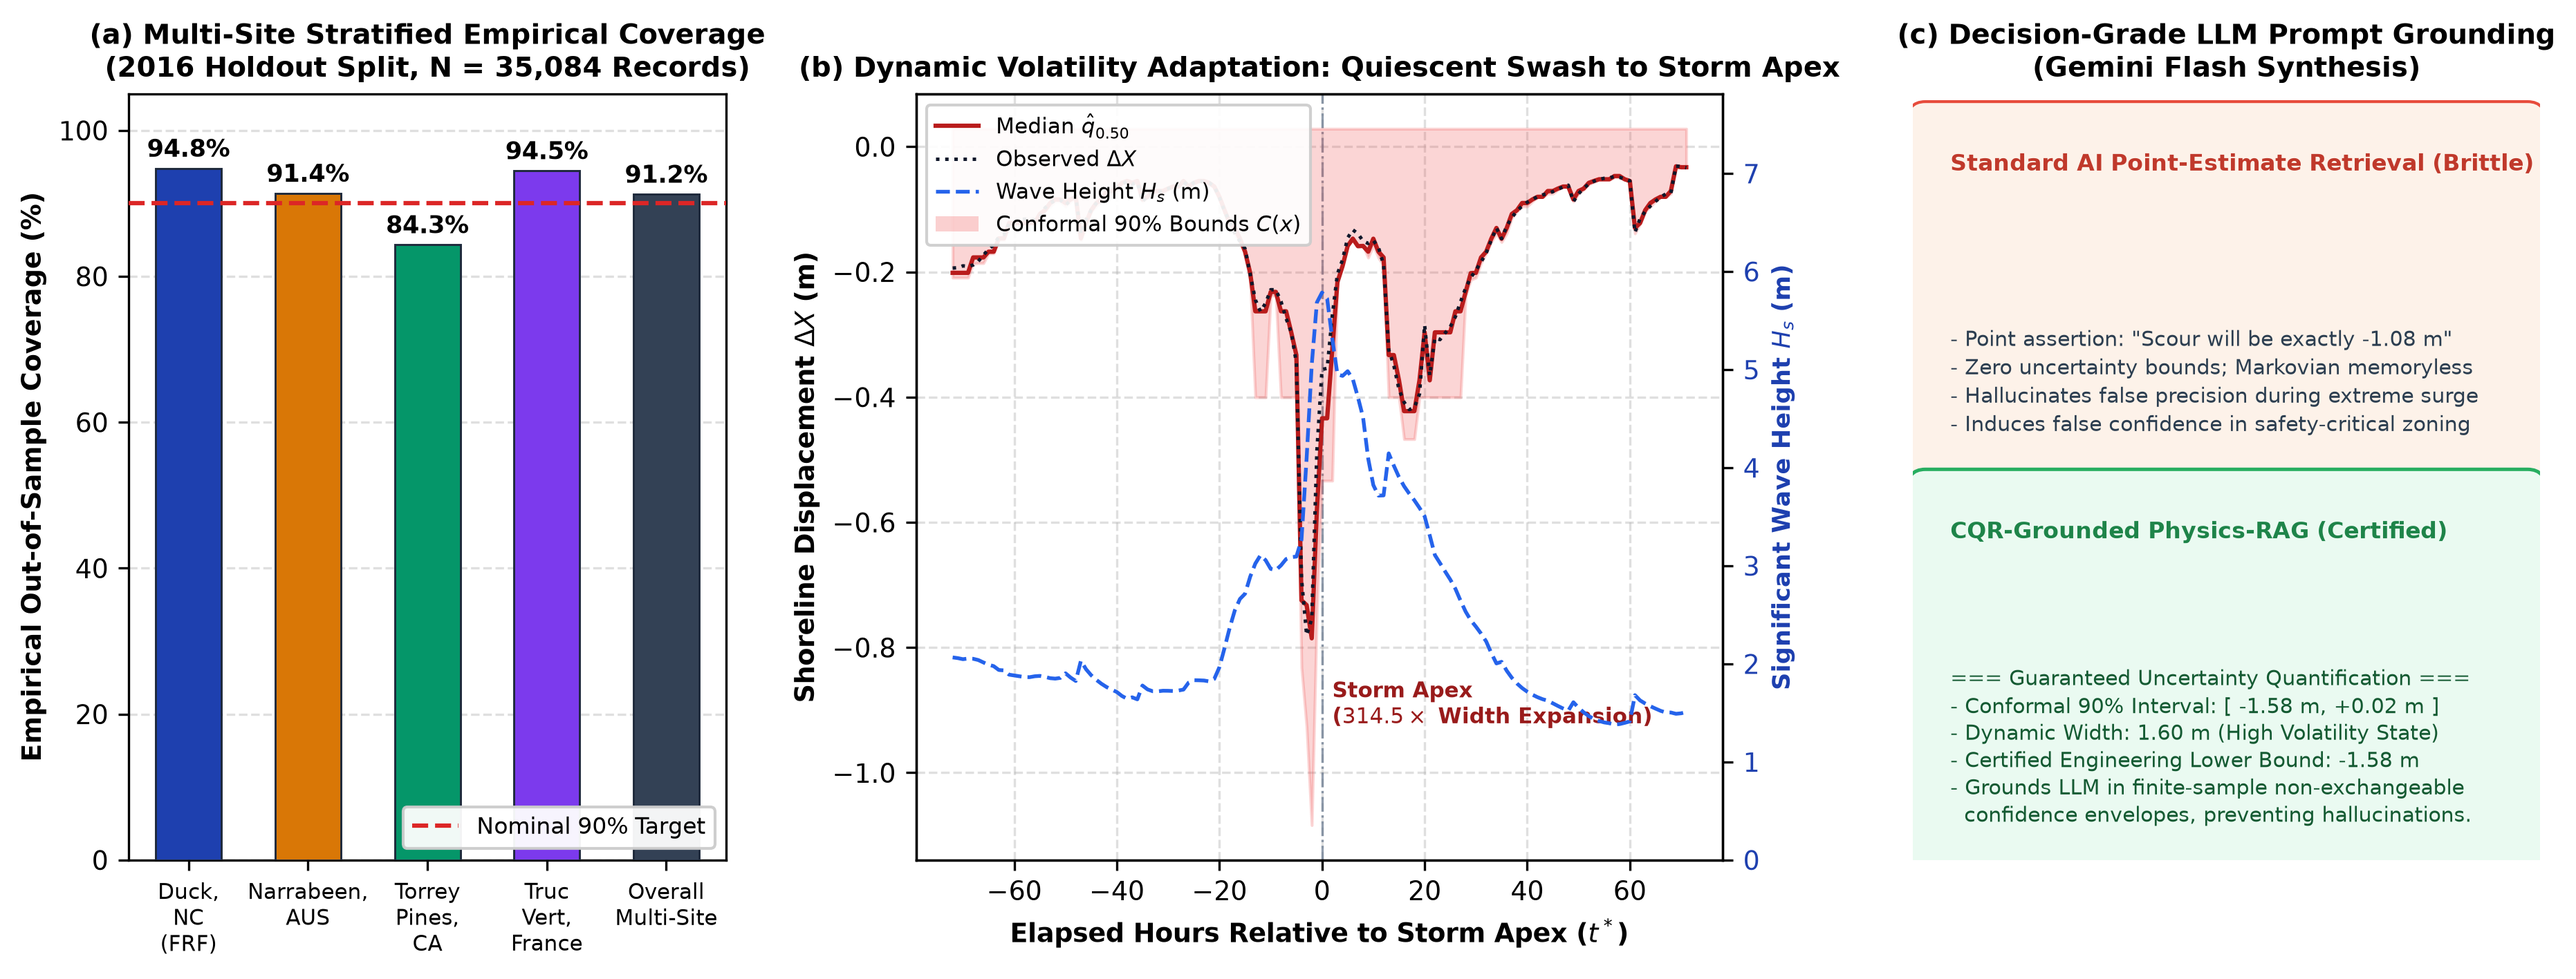
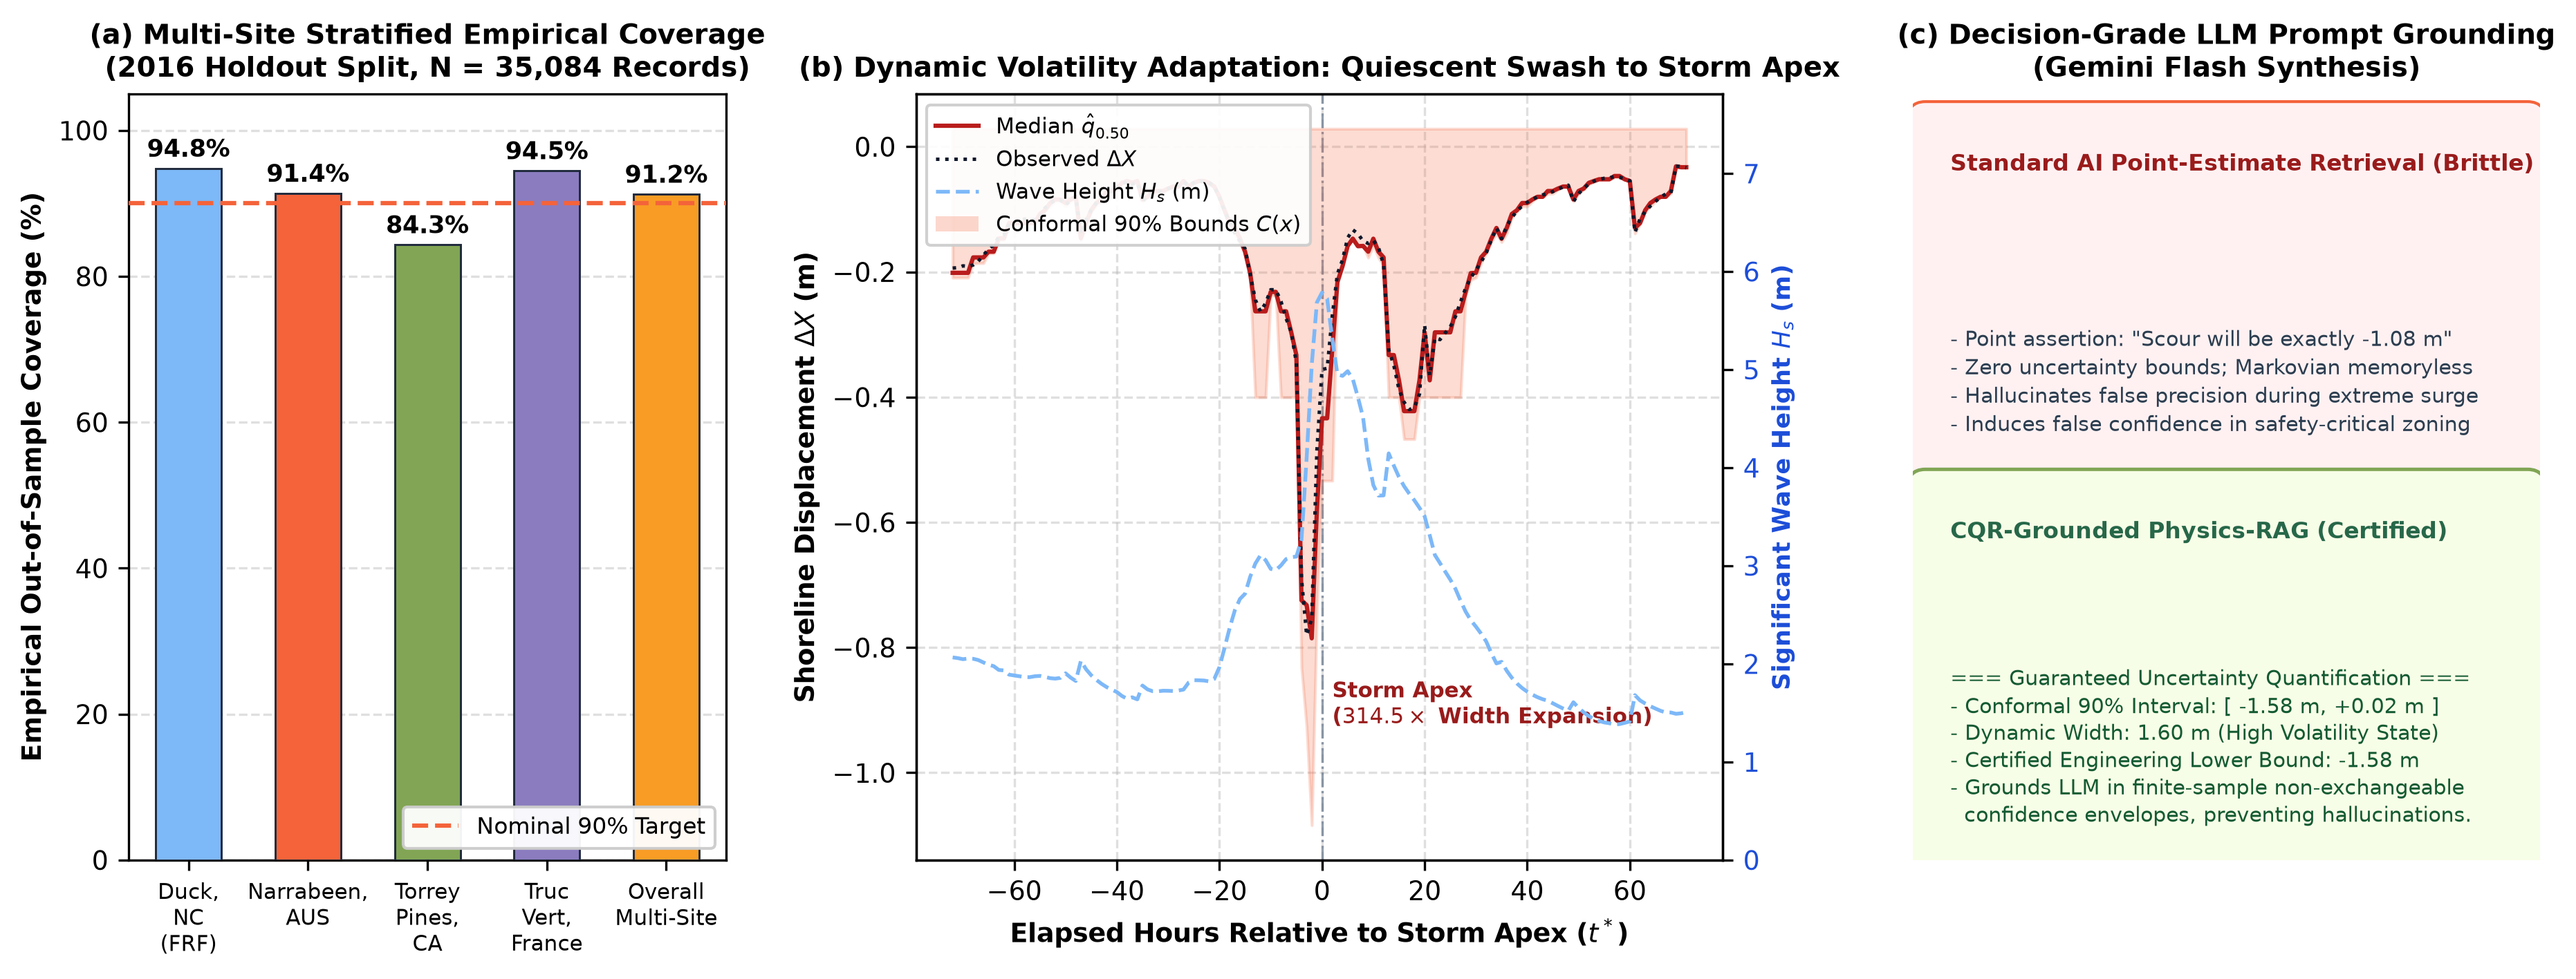
style: update visualization color palette across scripts and notebooks

diff --git a/scripts/generate_conformal_uq_figure.py b/scripts/generate_conformal_uq_figure.py
@@ -115,11 +115,11 @@ def main():
     labels = [site_names[s].replace(" ", "\n") for s in sites] + ["Overall\nMulti-Site"]
     cov_vals = [site_coverages[s] for s in sites] + [overall_eval["empirical_coverage"] * 100.0]
     # Unified Project-Wide Site Palette:
-    # Duck (Navy), Narrabeen (Amber), Torrey Pines (Emerald), Truc Vert (Violet), Overall (Slate)
-    bar_colors = ["#1E40AF", "#D97706", "#059669", "#7C3AED", "#334155"]
+    # Duck (Light Blue), Narrabeen (Salmon), Torrey Pines (Sage Green), Truc Vert (Lilac), Overall (Light Orange)
+    bar_colors = ["#7db8f8", "#f4633a", "#81a554", "#8b7cbf", "#f89c25"]
 
     bars = ax_a.bar(x_pos, cov_vals, width=0.55, color=bar_colors, edgecolor="#1E293B", linewidth=0.7, zorder=3)
-    ax_a.axhline(90.0, color="#DC2626", linestyle="--", linewidth=1.5, label="Nominal 90% Target", zorder=4)
+    ax_a.axhline(90.0, color="#f4633a", linestyle="--", linewidth=1.5, label="Nominal 90% Target", zorder=4)
 
     for b in bars:
         h = b.get_height()
@@ -141,9 +141,9 @@ def main():
 
     # Plot wave height on twin axis
     ax_b_tw = ax_b.twinx()
-    l_hs = ax_b_tw.plot(t_hours, storm_segment["hs_m"].values, color="#2563EB", linestyle="--", linewidth=1.3, label=r"Wave Height $H_s$ (m)", zorder=2)
-    ax_b_tw.set_ylabel(r"Significant Wave Height $H_s$ (m)", color="#1E40AF", fontsize=8.5, fontweight="bold")
-    ax_b_tw.tick_params(axis="y", labelcolor="#1E40AF")
+    l_hs = ax_b_tw.plot(t_hours, storm_segment["hs_m"].values, color="#7db8f8", linestyle="--", linewidth=1.3, label=r"Wave Height $H_s$ (m)", zorder=2)
+    ax_b_tw.set_ylabel(r"Significant Wave Height $H_s$ (m)", color="#1d4ed8", fontsize=8.5, fontweight="bold")
+    ax_b_tw.tick_params(axis="y", labelcolor="#1d4ed8")
     ax_b_tw.set_ylim(0, max(storm_segment["hs_m"].values) * 1.35)
 
     # Plot CQR prediction interval
@@ -152,8 +152,8 @@ def main():
     y_hi = storm_preds["conformal_upper"].values
     y_true = storm_segment[target_morpho_col].values
 
-    ax_b.fill_between(t_hours, y_lo, y_hi, color="#EF4444", alpha=0.22, label=r"Conformal 90% Interval $C(x)$", zorder=3)
-    l_med = ax_b.plot(t_hours, y_med, color="#B91C1C", linewidth=1.5, label=r"Median $\hat{q}_{0.50}$", zorder=4)
+    ax_b.fill_between(t_hours, y_lo, y_hi, color="#f4633a", alpha=0.22, label=r"Conformal 90% Interval $C(x)$", zorder=3)
+    l_med = ax_b.plot(t_hours, y_med, color="#b91c1c", linewidth=1.5, label=r"Median $\hat{q}_{0.50}$", zorder=4)
     l_obs = ax_b.plot(t_hours, y_true, color="#0F172A", linewidth=1.2, linestyle=":", label=r"Observed $\Delta X$", zorder=5)
 
     ax_b.axvline(0, color="#64748B", linestyle="-.", linewidth=0.8, alpha=0.7)
@@ -167,7 +167,7 @@ def main():
     # Combine legends
     lines = l_med + l_obs + l_hs
     labs = [l.get_label() for l in lines] + [r"Conformal 90% Bounds $C(x)$"]
-    ax_b.legend(lines + [patches.Patch(facecolor="#EF4444", alpha=0.25, edgecolor="none")], labs, loc="upper left", fontsize=7.5, framealpha=0.92)
+    ax_b.legend(lines + [patches.Patch(facecolor="#f4633a", alpha=0.25, edgecolor="none")], labs, loc="upper left", fontsize=7.5, framealpha=0.92)
 
     # ----------------------------------------------------
     # Panel (c): LLM Decision-Grade Grounding Box
@@ -178,9 +178,9 @@ def main():
 
     # Draw card 1: Ungrounded Baseline RAG
     box1 = patches.FancyBboxPatch((0.02, 0.52), 0.96, 0.44, boxstyle="round,pad=0.03,rounding_size=0.03",
-                                  linewidth=1.0, edgecolor="#e74c3c", facecolor="#fdf2e9")
+                                  linewidth=1.0, edgecolor="#f4633a", facecolor="#fff1f2")
     ax_c.add_patch(box1)
-    ax_c.text(0.06, 0.90, "Standard AI Point-Estimate Retrieval (Brittle)", fontsize=8, fontweight="bold", color="#c0392b")
+    ax_c.text(0.06, 0.90, "Standard AI Point-Estimate Retrieval (Brittle)", fontsize=8, fontweight="bold", color="#991b1b")
     ax_c.text(0.06, 0.56,
               "- Point assertion: \"Scour will be exactly -1.08 m\"\n"
               "- Zero uncertainty bounds; Markovian memoryless\n"
@@ -190,9 +190,9 @@ def main():
 
     # Draw card 2: CQR Decision-Grade Physics-RAG
     box2 = patches.FancyBboxPatch((0.02, 0.02), 0.96, 0.46, boxstyle="round,pad=0.03,rounding_size=0.03",
-                                  linewidth=1.2, edgecolor="#27ae60", facecolor="#eafaf1")
+                                  linewidth=1.2, edgecolor="#81a554", facecolor="#f7fee7")
     ax_c.add_patch(box2)
-    ax_c.text(0.06, 0.42, "CQR-Grounded Physics-RAG (Certified)", fontsize=8, fontweight="bold", color="#1e8449")
+    ax_c.text(0.06, 0.42, "CQR-Grounded Physics-RAG (Certified)", fontsize=8, fontweight="bold", color="#276749")
     ax_c.text(0.06, 0.05,
               "=== Guaranteed Uncertainty Quantification ===\n"
               "- Conformal 90% Interval: [ -1.58 m, +0.02 m ]\n"

diff --git a/scripts/generate_4panel_morphodynamics.py b/scripts/generate_4panel_morphodynamics.py
@@ -46,10 +46,10 @@ def main():
 
     # Harmonious, domain-aligned site color palette (consistent across all subplots)
     site_palette = {
-        "duck_nc": "#1E40AF",          # Atlantic Ocean Blue (Barrier Island)
-        "narrabeen_aus": "#D97706",     # Pacific Terracotta / Warm Amber (Embayed Beach)
-        "torrey_pines_ca": "#059669",   # California Coastal Emerald (Pocket Beach)
-        "truc_vert_france": "#7C3AED",  # French Atlantic Amethyst (Macrotidal)
+        "duck_nc": "#7db8f8",          # Light Blue (Atlantic Barrier Island)
+        "narrabeen_aus": "#f4633a",     # Salmon (Pacific Embayed Beach)
+        "torrey_pines_ca": "#81a554",   # Sage Green (California Pocket Beach)
+        "truc_vert_france": "#8b7cbf",  # Lilac (French Macrotidal)
     }
     site_colors = [site_palette[s] for s in sites]
 
@@ -60,8 +60,8 @@ def main():
     axes[0, 0].set_xticklabels(site_labels, rotation=15, fontweight="bold")
     axes[0, 0].set_ylabel(r"Dean Number $\Omega = H_s / (w_s T_p)$", fontweight="bold")
     axes[0, 0].set_title("(A) Morphodynamic Regime Across Global Sites", fontweight="bold", fontsize=14)
-    axes[0, 0].axhline(1.0, color="#27ae60", linestyle="--", alpha=0.8, linewidth=1.5, label=r"Reflective ($\Omega < 1$)")
-    axes[0, 0].axhline(6.0, color="#e74c3c", linestyle="--", alpha=0.8, linewidth=1.5, label=r"Dissipative ($\Omega > 6$)")
+    axes[0, 0].axhline(1.0, color="#81a554", linestyle="--", alpha=0.8, linewidth=1.5, label=r"Reflective ($\Omega < 1$)")
+    axes[0, 0].axhline(6.0, color="#f4633a", linestyle="--", alpha=0.8, linewidth=1.5, label=r"Dissipative ($\Omega > 6$)")
     axes[0, 0].legend(loc="upper right", fontsize=10, frameon=True)
 
     # Panel B: Deep-Water Wave Steepness Distribution (s0)
@@ -71,7 +71,7 @@ def main():
     axes[0, 1].set_xticklabels(site_labels, rotation=15, fontweight="bold")
     axes[0, 1].set_ylabel(r"Wave Steepness $s_0 = H_s / L_0$", fontweight="bold")
     axes[0, 1].set_title("(B) Wave Steepness Across Sites", fontweight="bold", fontsize=14)
-    axes[0, 1].axhline(0.025, color="#c0392b", linestyle="--", linewidth=1.8, label=r"Crit Steepness $s_{0,\mathrm{crit}}=0.025$")
+    axes[0, 1].axhline(0.025, color="#f4633a", linestyle="--", linewidth=1.8, label=r"Crit Steepness $s_{0,\mathrm{crit}}=0.025$")
     axes[0, 1].legend(loc="upper right", fontsize=10, frameon=True)
 
     # Panel C: Tidal Dissipation & Energy Smearing Factor (Psi_tide)
@@ -82,8 +82,8 @@ def main():
     axes[1, 0].set_ylabel(r"Tidal Smearing Factor $\Psi_{\mathrm{tide}}$ [-]", fontweight="bold")
     axes[1, 0].set_title(r"(C) Tidal Dissipation & Energy Smearing ($\Psi_{tide}$)", fontweight="bold", fontsize=14)
     axes[1, 0].set_ylim(0.0, 1.05)
-    axes[1, 0].axhline(1.0, color="#27ae60", linestyle="--", alpha=0.8, linewidth=1.5, label=r"Microtidal Limit ($\Psi_{\mathrm{tide}} \to 1.0$)")
-    axes[1, 0].axhline(0.5, color="#e74c3c", linestyle=":", alpha=0.8, linewidth=1.5, label=r"Macrotidal Damping ($\Psi_{\mathrm{tide}} \leq 0.5$)")
+    axes[1, 0].axhline(1.0, color="#81a554", linestyle="--", alpha=0.8, linewidth=1.5, label=r"Microtidal Limit ($\Psi_{\mathrm{tide}} \to 1.0$)")
+    axes[1, 0].axhline(0.5, color="#f4633a", linestyle=":", alpha=0.8, linewidth=1.5, label=r"Macrotidal Damping ($\Psi_{\mathrm{tide}} \leq 0.5$)")
     axes[1, 0].legend(loc="lower left", fontsize=10, frameon=True)
 
     # Panel D: Scale-Invariant Collapse (Normalized Upsilon*)

diff --git a/scripts/generate_benchmark_precision_figure.py b/scripts/generate_benchmark_precision_figure.py
@@ -21,14 +21,14 @@ def generate_figure_4():
     k_vals = [1, 5, 10, 20]
 
     # Project-Wide Cohesive Architectural Hierarchy Palette:
-    # - Proposed Hybrid: Deep Royal Cobalt Blue (#1D4ED8)
-    # - Pure Physics: Deep Sea Teal (#0D9488)
-    # - Raw-Data LLM: Neutral Slate Gray (#64748B)
-    # - Rule-Based SQL: Warm Technical Amber (#D97706)
+    # - Proposed Hybrid: Salmon (#f4633a)
+    # - Pure Physics: Sage Green (#81a554)
+    # - Raw-Data LLM: Lilac (#8b7cbf)
+    # - Rule-Based SQL: Light Orange (#f89c25)
     palette = {
         "Proposed: Hybrid Cascade Physics-RAG": {
             "label": "Proposed: Hybrid Cascade",
-            "color": "#1D4ED8",
+            "color": "#f4633a",
             "marker": "o",
             "markersize": 6.5,
             "linewidth": 2.4,
@@ -37,7 +37,7 @@ def generate_figure_4():
         },
         "Baseline 3: Pure Physics-RAG": {
             "label": "Baseline 3: Pure Physics",
-            "color": "#0D9488",
+            "color": "#81a554",
             "marker": "^",
             "markersize": 5.8,
             "linewidth": 1.6,
@@ -46,7 +46,7 @@ def generate_figure_4():
         },
         "Baseline 1: Raw-Data LLM-RAG": {
             "label": "Baseline 1: Raw LLM",
-            "color": "#64748B",
+            "color": "#8b7cbf",
             "marker": "D",
             "markersize": 5.0,
             "linewidth": 1.5,
@@ -55,7 +55,7 @@ def generate_figure_4():
         },
         "Baseline 2: Rule-Based SQL": {
             "label": "Baseline 2: Rule-Based SQL",
-            "color": "#D97706",
+            "color": "#f89c25",
             "marker": "s",
             "markersize": 5.2,
             "linewidth": 1.5,
@@ -101,7 +101,7 @@ def generate_figure_4():
             k_vals,
             curves["Baseline 1: Raw-Data LLM-RAG"],
             curves["Proposed: Hybrid Cascade Physics-RAG"],
-            color="#1D4ED8",
+            color="#f4633a",
             alpha=0.08,
             zorder=2,
             label="_nolegend_",
@@ -138,16 +138,16 @@ def generate_figure_4():
         xytext=(7.5, 0.493),
         arrowprops=dict(
             arrowstyle="->",
-            color="#1D4ED8",
+            color="#c2410c",
             lw=1.0,
             connectionstyle="arc3,rad=-0.15",
         ),
         fontsize=6.5,
         fontweight="bold",
-        color="#1E40AF",
+        color="#991b1b",
         ha="left",
         va="center",
-        bbox=dict(boxstyle="round,pad=0.25", facecolor="#EFF6FF", edgecolor="#BFDBFE", alpha=0.96, lw=0.6),
+        bbox=dict(boxstyle="round,pad=0.25", facecolor="#fff1f2", edgecolor="#fecdd3", alpha=0.96, lw=0.6),
         zorder=7,
     )
 

diff --git a/scripts/generate_peak_impact_figure.py b/scripts/generate_peak_impact_figure.py
@@ -23,10 +23,10 @@ def generate_figure_5():
 
     # Architectural color mapping (identical to Fig 4)
     arch_color_map = {
-        "Baseline 1: Raw-Data LLM": "#64748B",
-        "Baseline 2: Flat SQL": "#D97706",
-        "Baseline 3: Pure Physics": "#0D9488",
-        "Proposed: Hybrid Cascade": "#1D4ED8",
+        "Baseline 1: Raw-Data LLM": "#8b7cbf",
+        "Baseline 2: Flat SQL": "#f89c25",
+        "Baseline 3: Pure Physics": "#81a554",
+        "Proposed: Hybrid Cascade": "#f4633a",
     }
 
     colors = [arch_color_map.get(a, "#334155") for a in df["Architecture"]]
